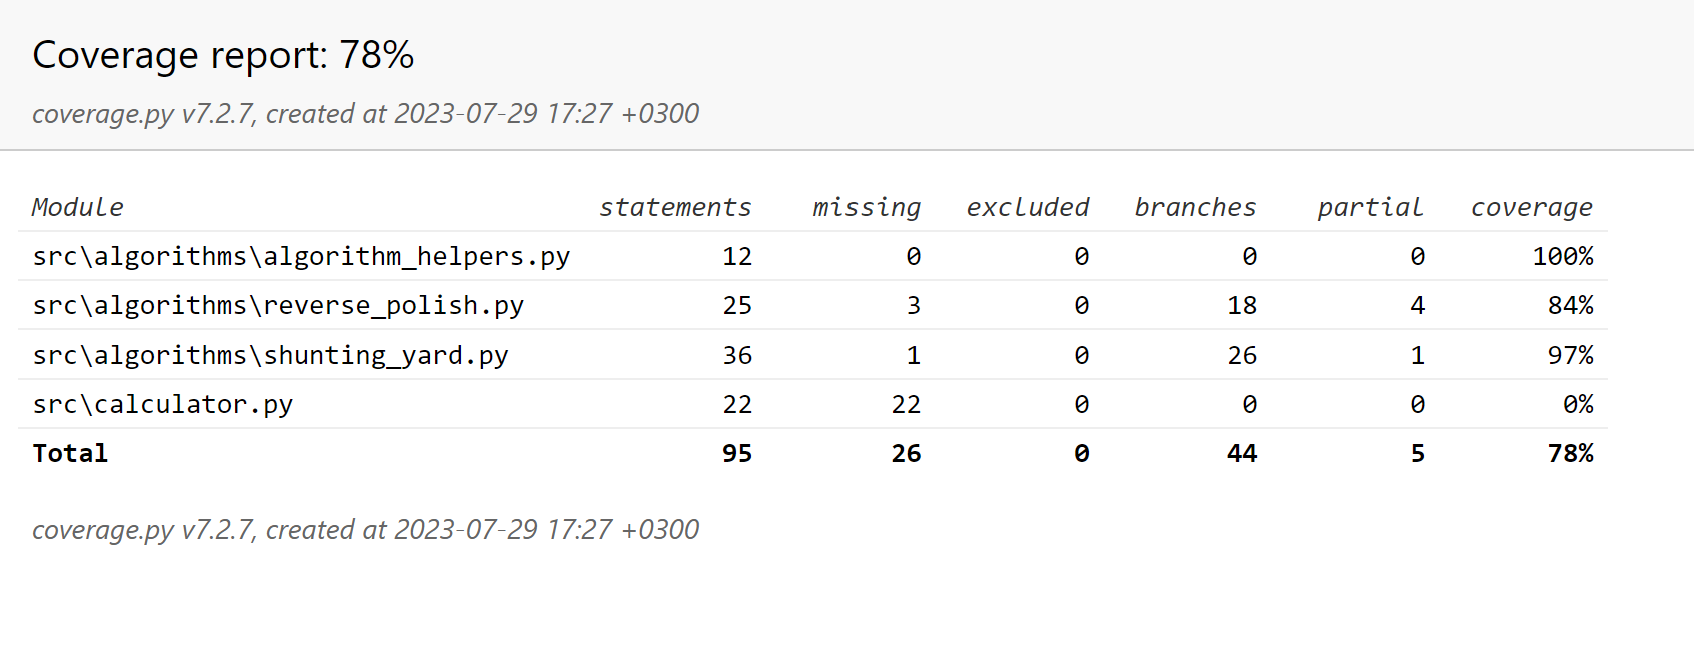
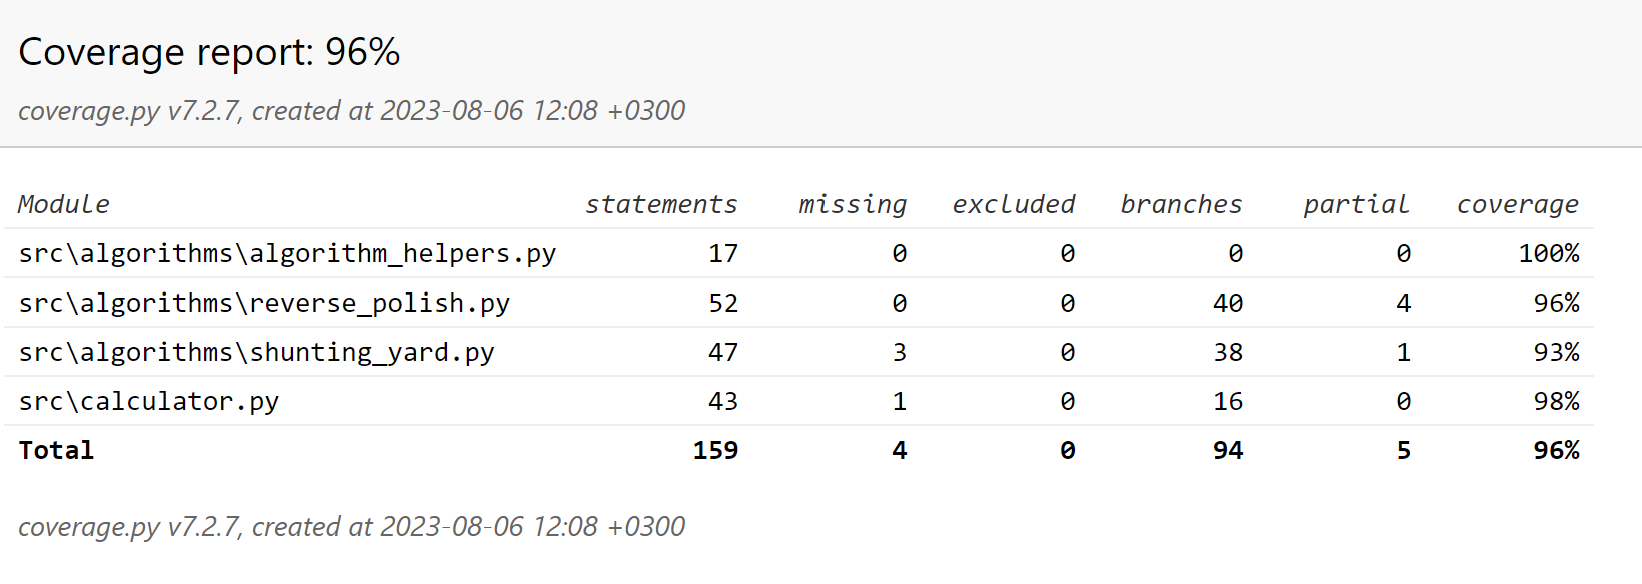
Create testing document

diff --git a/documentation/testing_document.md b/documentation/testing_document.md
@@ -1,0 +1,3 @@
+## Unit testing
+
+Unit testing coverage can be found [here](https://github.com/ksuominen/scientific-calculator/blob/master/documentation/Graph/coverage_report.png)
